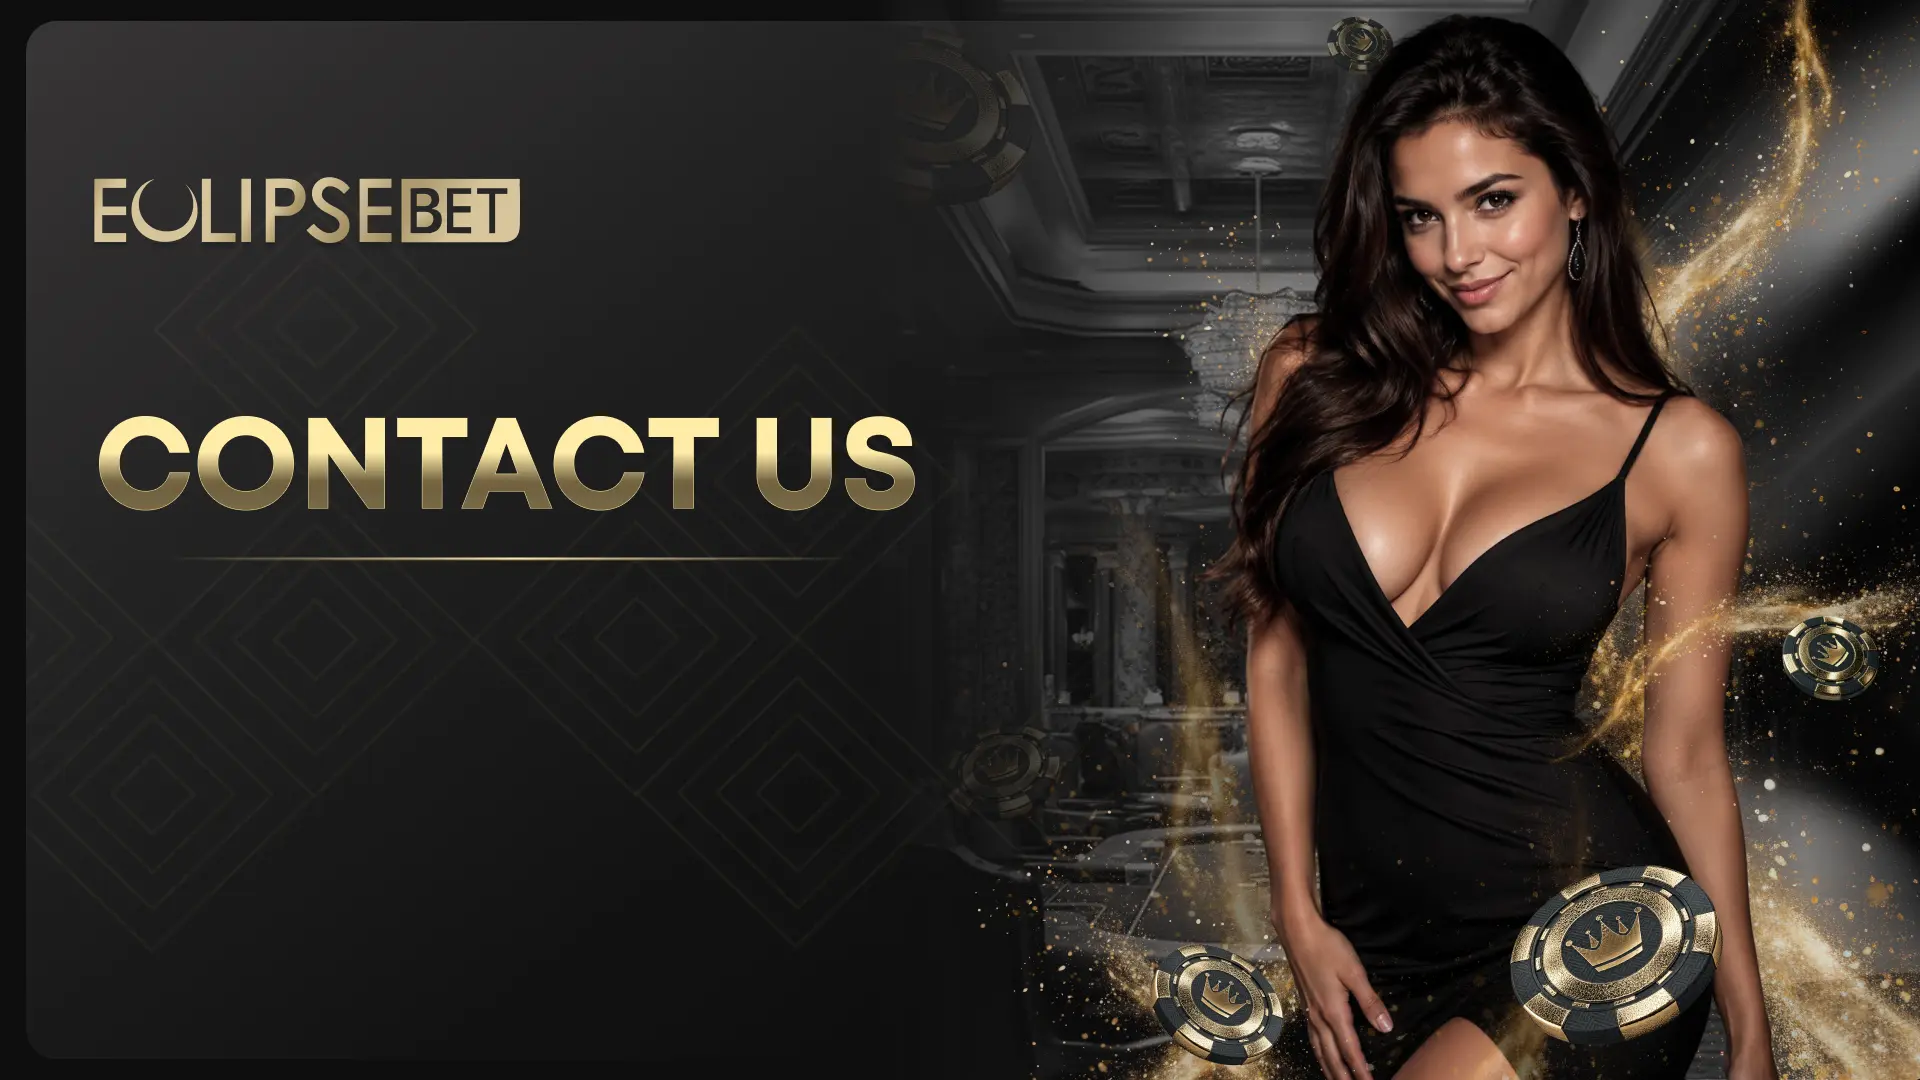
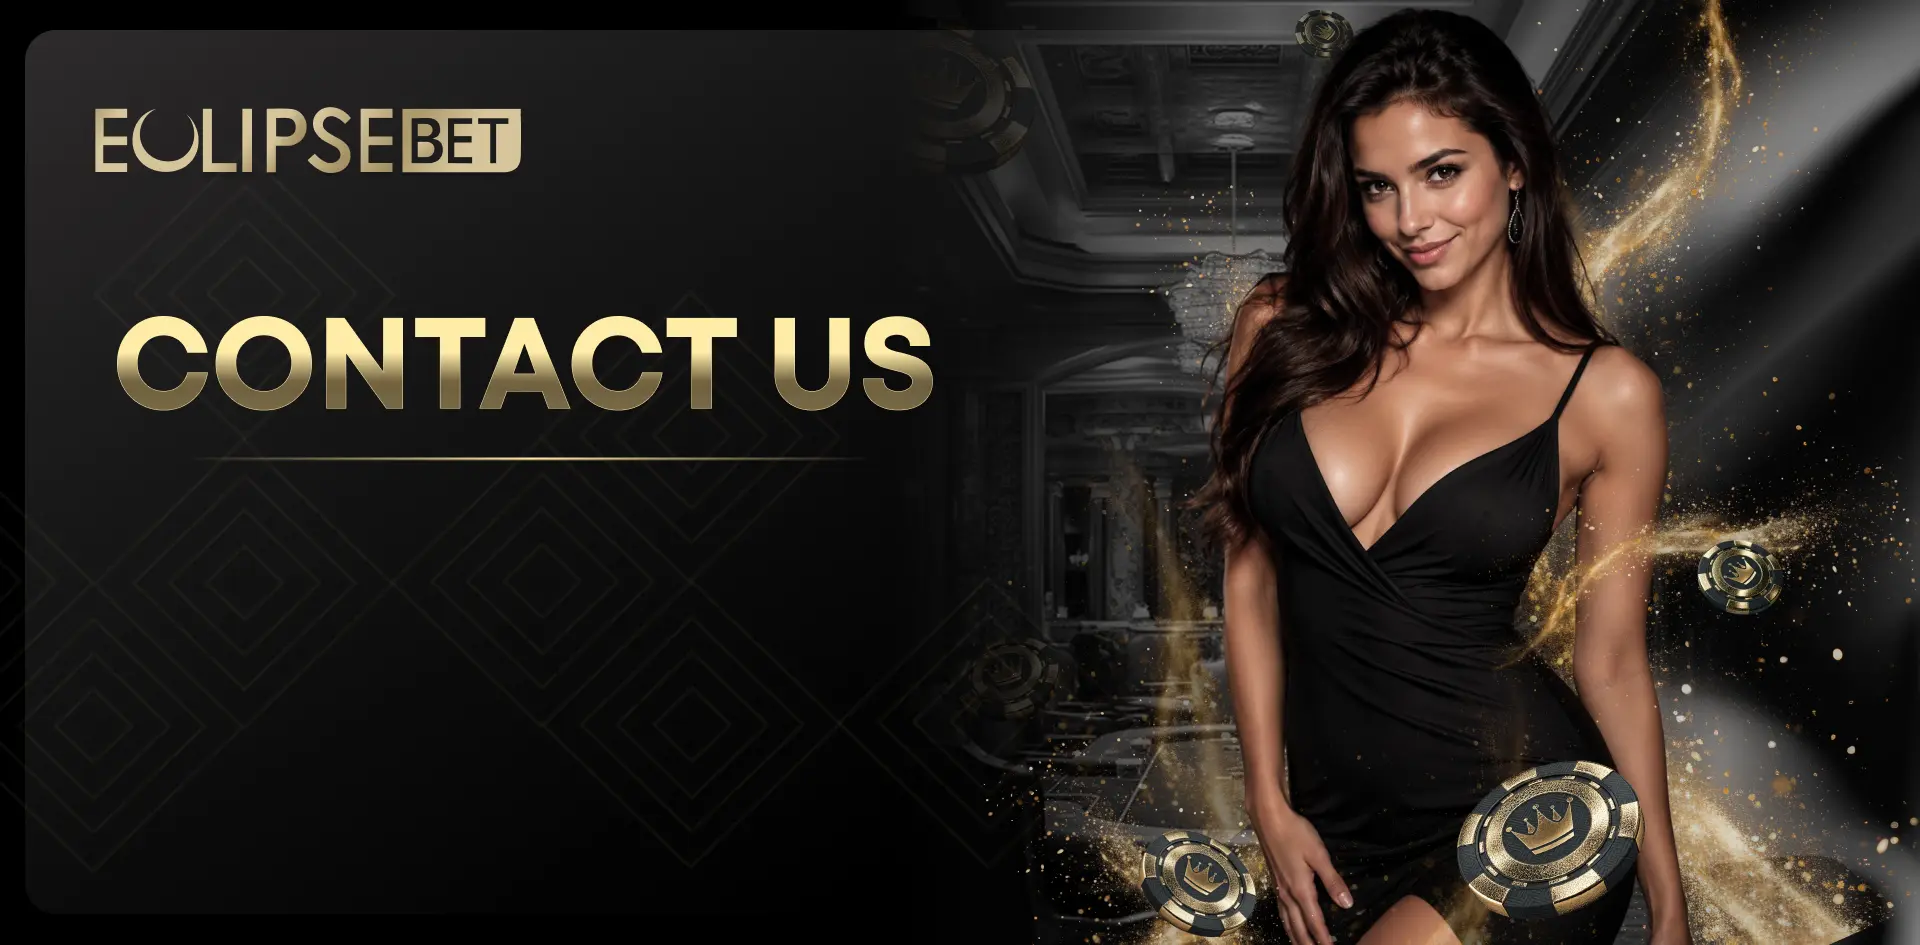
Add files via upload

diff --git a/store/ContactUs/Eclipse/index.html b/store/ContactUs/Eclipse/index.html
@@ -24,10 +24,11 @@
     .stage {
       position: relative;
       width: 1920px;
-      height: 1080px;
+      height: 945px;
       flex: none;
       background: url("background.webp") center / cover no-repeat;
-      transform: scale(min(100vw / 1920, 100vh / 1080));
+      transform: scale(1);
+      transform-origin: center;
     }
 
     .stage a,
@@ -50,8 +51,8 @@
     }
 
     .back {
-      left: 94px;
-      top: 780px;
+      left: 95px;
+      top: 717px;
     }
 
     .toast {
@@ -81,6 +82,15 @@
   </main>
 
   <script>
+    // Вписываем макет 1920×1080 в текущее окно браузера, сохраняя пропорции
+    const stage = document.querySelector(".stage");
+    function fitStage() {
+      const scale = Math.max(window.innerWidth / 1920, window.innerHeight / 945);
+      stage.style.transform = "scale(" + scale + ")";
+    }
+    fitStage();
+    window.addEventListener("resize", fitStage);
+
     const phone = document.getElementById("phone");
     const toast = document.getElementById("toast");
     let timer;
